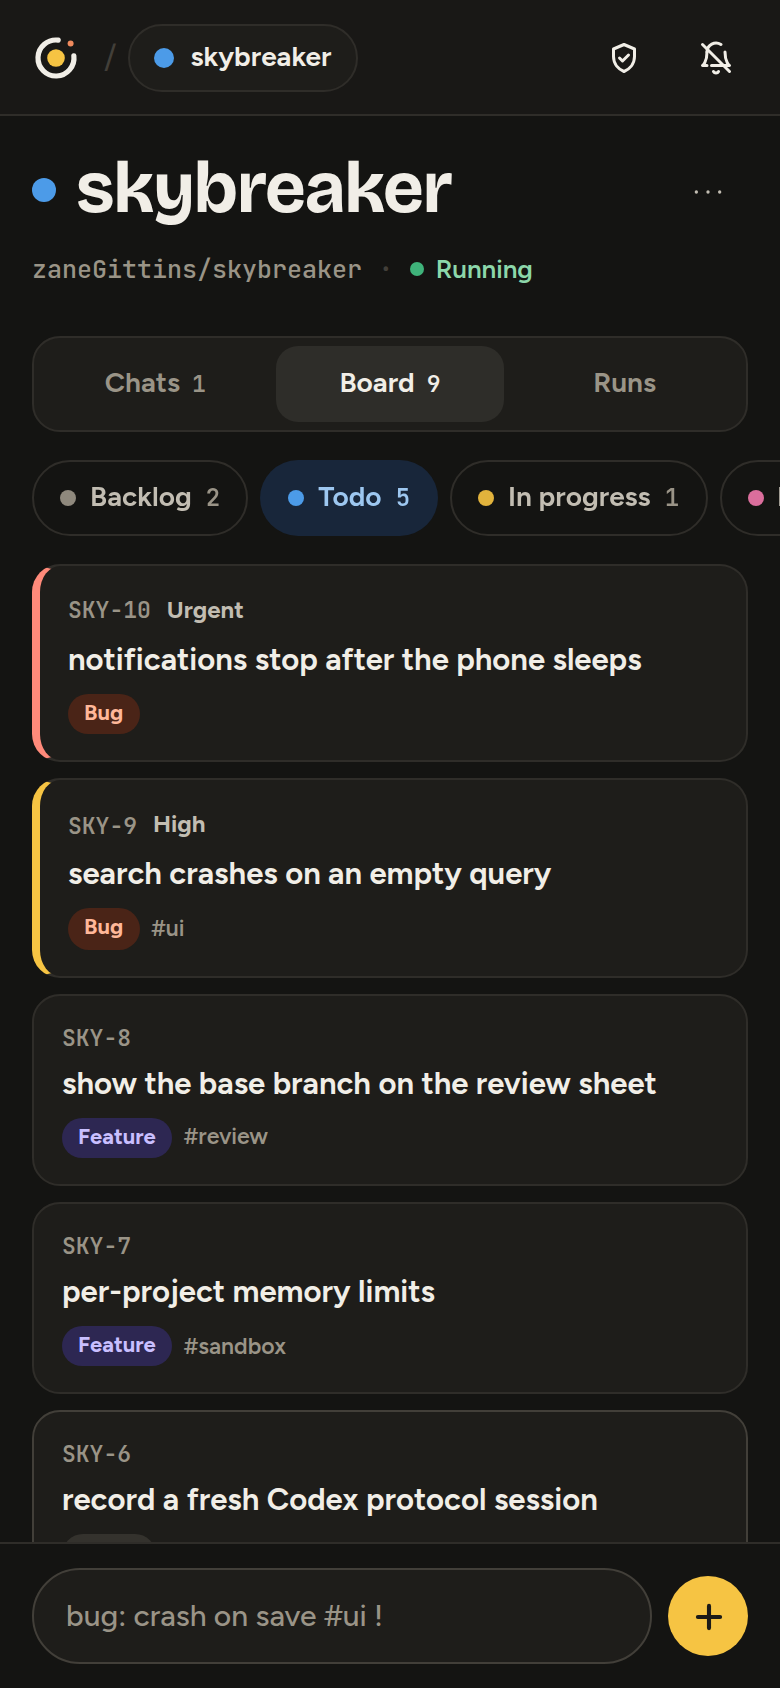
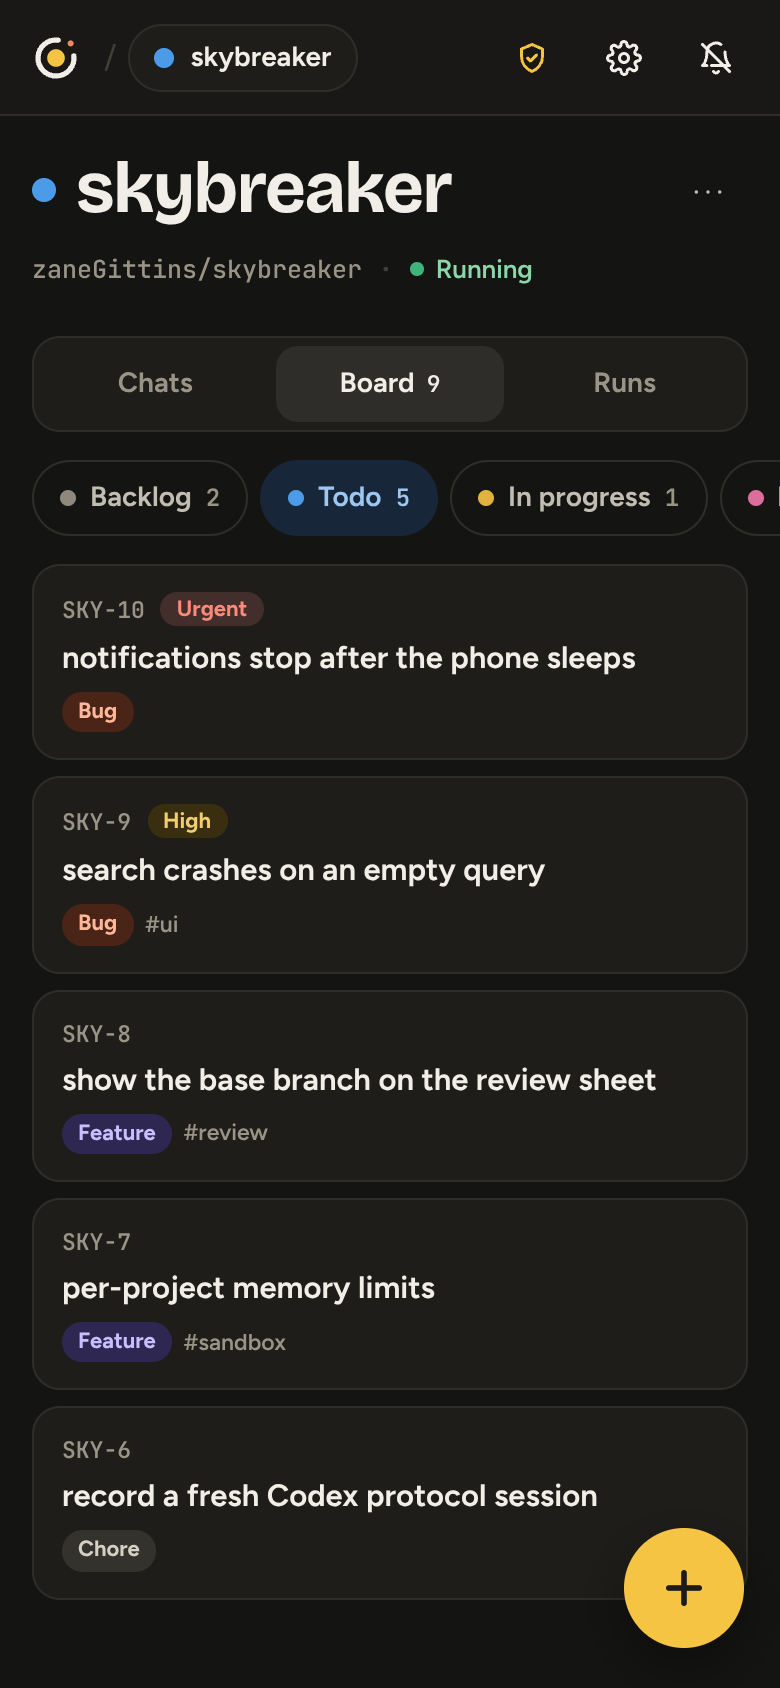
Retake the README screenshots
Home, chat and board as they look now. The dev Claude lists its models
as the real CLI does, so the chat shows Opus 5.5.

diff --git a/internal/control/controld/uidev_test.go b/internal/control/controld/uidev_test.go
@@ -193,8 +193,9 @@ func devClaude(m map[string]any, say func(any), raw func(string)) {
 		r := m["request"].(map[string]any)
 		if r["subtype"] == "initialize" {
 			say(map[string]any{"type": "control_response", "response": map[string]any{"subtype": "success", "request_id": m["request_id"], "response": map[string]any{"models": []any{
-				map[string]any{"value": "default", "resolvedModel": "claude-opus-5-5", "displayName": "Default (recommended)", "description": "Test model · for everyday tasks"},
-				map[string]any{"value": "fast", "resolvedModel": "claude-sonnet-5-5", "displayName": "Fast", "description": "Quicker answers"},
+				// As the real CLI lists them: the default names its model first.
+				map[string]any{"value": "default", "resolvedModel": "claude-opus-5-5", "displayName": "Default (recommended)", "description": "Opus 5.5 · Best for everyday, complex tasks"},
+				map[string]any{"value": "sonnet", "resolvedModel": "claude-sonnet-5-5", "displayName": "Sonnet", "description": "Sonnet 5.5 · Quicker answers"},
 			}}}})
 		}
 		if r["subtype"] == "set_model" {
